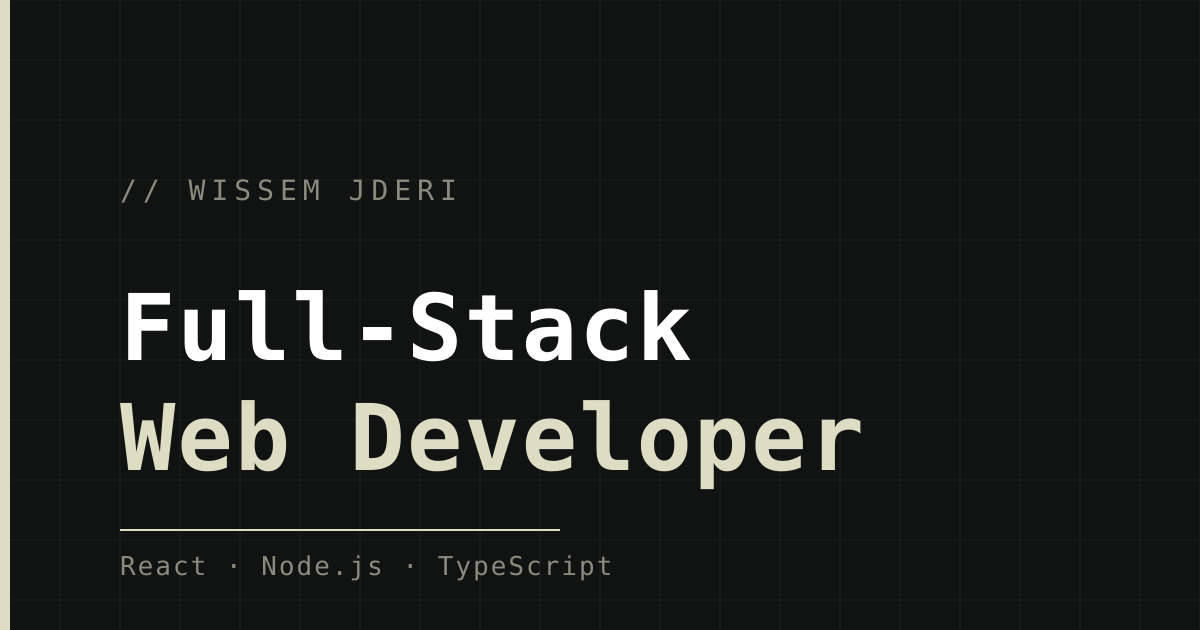
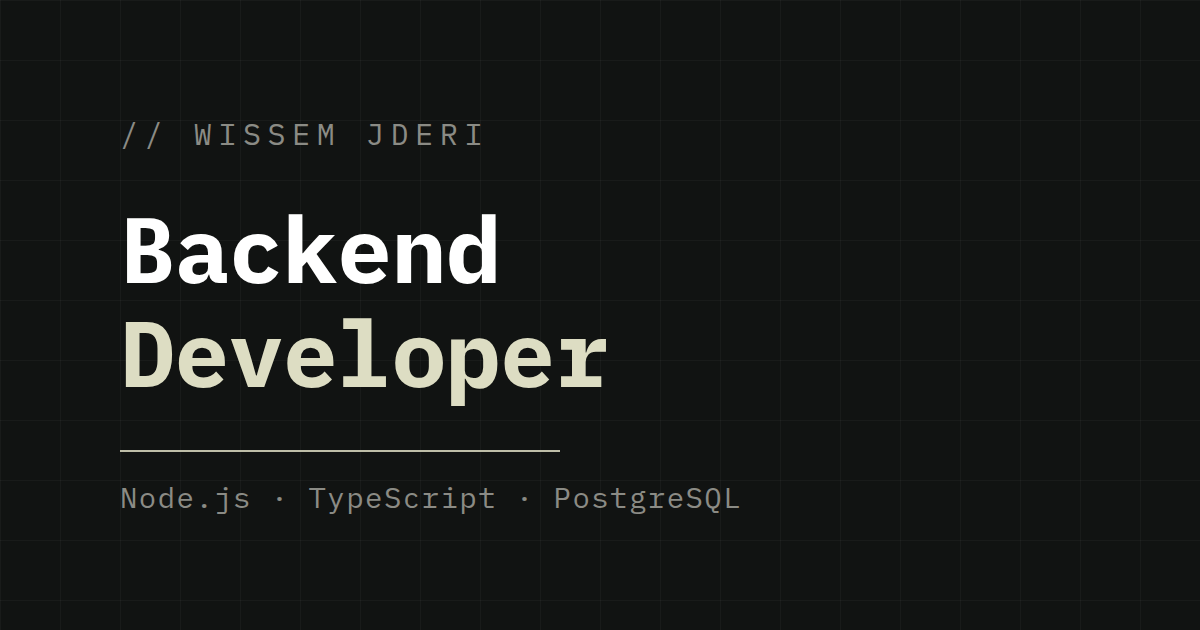
feat: update portfolio content to reflect backend development focus and enhance descriptions

diff --git a/components/main-content/AboutMe.jsx b/components/main-content/AboutMe.jsx
@@ -1,4 +1,8 @@
 import { motion } from "framer-motion";
+
+const linkStyle =
+  "text-[#ddddc3] underline underline-offset-4 decoration-white/25 transition-colors hover:decoration-[#ddddc3]";
+
 const AboutMe = ({ sectionStyle, titleStyle }) => {
   return (
     <motion.section
@@ -10,50 +14,80 @@ const AboutMe = ({ sectionStyle, titleStyle }) => {
       className={`${sectionStyle}`}
     >
       <h2 className={`${titleStyle}`}>About Me:</h2>
-      <p className="text-gray-200 leading-relaxed mb-6">
-        I'm <span className="font-bold">Wissem</span>, a{" "}
-        <span className="font-bold">
-          self-taught backend developer from Tunisia
-        </span>
-        .
-      </p>
-      <p className="text-gray-200 leading-relaxed mb-6">
-        I got into programming because I liked the idea of turning an idea into
-        something real — something you can hand to thousands of people at almost
-        no cost. That's still what excites me about it: a{" "}
-        <span className="font-bold">
-          well-built piece of software can genuinely make someone's life a
-          little easier
-        </span>
-        .
-      </p>
-      <p className="text-gray-200 leading-relaxed mb-6">
-        I work{" "}
-        <span className="font-bold">systematically and deliberately</span>. I'd
-        rather go slow and get it right than rush through and leave a mess
-        behind — that shows up in how I learn, how I write code, and how I think
-        about problems.
-      </p>
-      <p className="text-gray-200 leading-relaxed mb-6">
-        I taught myself through{" "}
-        <span className="font-bold">OSSU's computer science curriculum</span>,
-        working through it the way a program is meant to be worked through — in
-        order, without skipping the parts that are hard to skip.
-      </p>
-      <p className="text-gray-200 leading-relaxed mb-6">
-        I'm not drawn to flashy or complicated for its own sake. I care about{" "}
-        <span className="font-bold">
-          tools that remove friction, simplify decisions, and give people back a
-          bit of their time
-        </span>
-        . If software isn't making something genuinely better, what's the point?
-      </p>
-      <p className="text-gray-200 leading-relaxed">
-        I'm currently <span className="font-bold">open to work</span> — backend,
-        with full-stack capability. Looking to join people who take their craft
-        seriously and keep getting better at what they do. If that sounds like a
-        fit, <span className="font-bold">let's talk.</span>
-      </p>
+
+      <div className="max-w-2xl space-y-5 leading-relaxed text-gray-200">
+        <p>
+          I'm <span className="font-bold">Wissem</span>, a{" "}
+          <span className="font-bold">self-taught backend developer</span> from
+          Sousse, Tunisia.
+        </p>
+
+        <p>
+          I got into programming because I liked that you can build a thing once
+          and hand it to thousands of people. That part still holds up.
+        </p>
+
+        <p>
+          What keeps me here is different, though. I care about{" "}
+          <span className="font-bold">
+            understanding what is actually happening underneath
+          </span>
+          , rather than gluing pieces
+          together until the errors stop. I learned the hard way that "it works"
+          and "I know why it works" are two different things, and that the
+          difference only shows up later, when something breaks and someone has
+          to understand why.
+        </p>
+
+        <p>
+          So I work <span className="font-bold">slowly and deliberately</span>.
+          I would rather get something right
+          than get it done twice. Errors are the part I actually learn from, and
+          simplicity is the part that survives.
+        </p>
+
+        <p>
+          <span className="font-bold">Security is the other half of it.</span>{" "}
+          Spending time on how applications
+          get broken into changed how I build them: it is harder to be careless
+          about auth or input handling once you have spent an evening walking
+          through someone else's.
+        </p>
+
+        <p>
+          Most of what I know came from building things, plus{" "}
+          <a
+            href="https://fullstackopen.com/en/"
+            target="_blank"
+            rel="noopener noreferrer"
+            className={linkStyle}
+          >
+            Full Stack Open
+          </a>
+          ,{" "}
+          <a
+            href="https://cs50.harvard.edu/"
+            target="_blank"
+            rel="noopener noreferrer"
+            className={linkStyle}
+          >
+            CS50
+          </a>{" "}
+          and the{" "}
+          <a
+            href="https://github.com/ossu/computer-science"
+            target="_blank"
+            rel="noopener noreferrer"
+            className={linkStyle}
+          >
+            OSSU curriculum
+          </a>{" "}
+          along the way. There's no degree behind any of it —{" "}
+          <span className="font-bold">what there is instead is public</span>:
+          the repos, the deployed sites, the writeups. I work in Arabic and English, and right now most
+          of my days go into Node.js, NestJS and PostgreSQL.
+        </p>
+      </div>
     </motion.section>
   );
 };

diff --git a/app/layout.js b/app/layout.js
@@ -12,18 +12,21 @@ const SITE_URL = "https://wissemjderi.vercel.app/";
 
 export const metadata = {
   metadataBase: new URL(SITE_URL),
-  title: "Wissem Jderi - Full-Stack Web Developer",
+  title: "Wissem Jderi — Backend Developer",
   description:
-    "Wissem Jderi - Full-stack developer building modern, efficient web applications. Skilled in JavaScript, React, Node.js, and passionate about clean, maintainable code.",
+    "Self-taught backend developer in Tunisia. Node.js, TypeScript, NestJS and PostgreSQL, with a web security practice behind it. Open to remote roles.",
   keywords: [
     "Wissem Jderi",
-    "Full-Stack Developer",
-    "Web Developer",
-    "React",
-    "Next.js",
+    "Backend Developer",
     "Node.js",
     "TypeScript",
-    "Freelance Developer",
+    "NestJS",
+    "Express",
+    "PostgreSQL",
+    "REST API",
+    "Web Application Security",
+    "Remote Developer",
+    "Tunisia",
   ],
   authors: [{ name: "Wissem Jderi" }],
   creator: "Wissem Jderi",
@@ -39,23 +42,23 @@ export const metadata = {
     locale: "en_US",
     url: SITE_URL,
     siteName: "Wissem Jderi",
-    title: "Wissem Jderi - Full-Stack Web Developer",
+    title: "Wissem Jderi — Backend Developer",
     description:
-      "Full-stack developer building modern, efficient web applications. Skilled in JavaScript, React, Node.js, and passionate about clean, maintainable code.",
+      "Self-taught backend developer in Tunisia. Node.js, TypeScript, NestJS and PostgreSQL, with a web security practice behind it. Open to remote roles.",
     images: [
       {
         url: "/og-image.png",
         width: 1200,
         height: 630,
-        alt: "Wissem Jderi - Full-Stack Web Developer",
+        alt: "Wissem Jderi — Backend Developer",
       },
     ],
   },
   twitter: {
     card: "summary_large_image",
-    title: "Wissem Jderi - Full-Stack Web Developer",
+    title: "Wissem Jderi — Backend Developer",
     description:
-      "Full-stack developer building modern, efficient web applications. Skilled in JavaScript, React, Node.js, and passionate about clean, maintainable code.",
+      "Self-taught backend developer in Tunisia. Node.js, TypeScript, NestJS and PostgreSQL, with a web security practice behind it. Open to remote roles.",
     images: ["/og-image.png"],
   },
   icons: {

diff --git a/components/main-content/TechStack.jsx b/components/main-content/TechStack.jsx
@@ -1,19 +1,13 @@
 import Image from "next/image";
 import { motion } from "framer-motion";
-import {
-  FaReact,
-  FaNodeJs,
-  FaGitAlt,
-  FaGithub,
-  FaDocker,
-} from "react-icons/fa";
+import { FaReact, FaNodeJs, FaGitAlt, FaDocker } from "react-icons/fa";
 
 import {
   SiJavascript,
   SiExpress,
+  SiNestjs,
   SiMongodb,
   SiTypescript,
-  SiFastapi,
   SiNextdotjs,
   SiTailwindcss,
 } from "react-icons/si";
@@ -42,16 +36,6 @@ const TechStack = ({ sectionStyle, titleStyle }) => {
             />
           ),
         },
-        {
-          name: "C",
-          icon: <Image src="/logos/c.svg" alt="C" width={36} height={36} />,
-        },
-        {
-          name: "Java",
-          icon: (
-            <Image src="/logos/java.svg" alt="Java" width={36} height={36} />
-          ),
-        },
       ],
     },
     {
@@ -75,16 +59,16 @@ const TechStack = ({ sectionStyle, titleStyle }) => {
       category: "Backend",
       techs: [
         {
-          name: "FastAPI",
-          icon: <SiFastapi size={36} className="text-[#14b8a6]" />,
-        },
-        {
           name: "Node.js",
           icon: <FaNodeJs size={36} className="text-[#68A063]" />,
         },
         {
           name: "Express",
           icon: <SiExpress size={36} className="text-gray-300" />,
+        },
+        {
+          name: "NestJS",
+          icon: <SiNestjs size={36} className="text-[#E0234E]" />,
         },
       ],
     },
@@ -150,10 +134,6 @@ const TechStack = ({ sectionStyle, titleStyle }) => {
         },
         { name: "Git", icon: <FaGitAlt size={36} className="text-red-500" /> },
         {
-          name: "GitHub",
-          icon: <FaGithub size={36} className="text-gray-300" />,
-        },
-        {
           name: "Postman",
           icon: (
             <Image
@@ -172,8 +152,8 @@ const TechStack = ({ sectionStyle, titleStyle }) => {
     <section id="Tech I Use" className={sectionStyle}>
       <h2 className={`${titleStyle}`}>Technologies I Use:</h2>
       <p className="mb-7">
-        The tools, languages, and frameworks I specialize in to deliver
-        efficient solutions.
+        What I work with day to day. I've left off anything I couldn't answer
+        questions about.
       </p>
 
       <div className="grid gap-3 text-white sm:grid-cols-2">

diff --git a/components/main-content/data/myCertificates.js b/components/main-content/data/myCertificates.js
@@ -23,14 +23,6 @@ export const certificates = [
     category: "cybersecurity",
   },
   {
-    title:
-      "Security Fundamentals & Offensive/Defensive Concepts – TryHackMe (Cyber Security 101 Path)",
-    issuer: "TryHackMe",
-    link: "https://tryhackme-certificates.s3-eu-west-1.amazonaws.com/THM-J6JVGH2MA9.pdf",
-    logo: "/logos/tryhackme.svg",
-    category: "cybersecurity",
-  },
-  {
     title: "CS50’s Introduction to Programming with Python",
     issuer: "Harvard",
     link: "https://cs50.harvard.edu/certificates/eac5cd37-29fd-4525-bb3d-2f2d5d4e4f9d",
@@ -39,31 +31,18 @@ export const certificates = [
   },
   {
     title:
+      "Security Fundamentals & Offensive/Defensive Concepts – TryHackMe (Cyber Security 101 Path)",
+    issuer: "TryHackMe",
+    link: "https://tryhackme-certificates.s3-eu-west-1.amazonaws.com/THM-J6JVGH2MA9.pdf",
+    logo: "/logos/tryhackme.svg",
+    category: "cybersecurity",
+  },
+  {
+    title:
       "Cybersecurity & Networking Fundamentals – TryHackMe (Pre-Security Path)",
     issuer: "TryHackMe",
     link: "https://tryhackme-certificates.s3-eu-west-1.amazonaws.com/THM-BKDXC6XQDU.pdf",
     logo: "/logos/tryhackme.svg",
     category: "cybersecurity",
-  },
-  {
-    title: "Responsive Web Design",
-    issuer: "freeCodeCamp",
-    link: "https://www.freecodecamp.org/certification/fcce114309e-e851-4fd6-a674-4792269f8542/responsive-web-design",
-    logo: "/logos/freecodecamp.png",
-    category: "programming",
-  },
-  {
-    title: "JavaScript Algorithms and Data Structures",
-    issuer: "freeCodeCamp",
-    link: "https://www.freecodecamp.org/certification/fcce114309e-e851-4fd6-a674-4792269f8542/javascript-algorithms-and-data-structures-v8",
-    logo: "/logos/freecodecamp.png",
-    category: "programming",
-  },
-  {
-    title: "Scientific Computing with Python",
-    issuer: "freeCodeCamp",
-    link: "https://www.freecodecamp.org/certification/fcce114309e-e851-4fd6-a674-4792269f8542/scientific-computing-with-python-v7",
-    logo: "/logos/freecodecamp.png",
-    category: "programming",
   },
 ];

diff --git a/scripts/og-image.html b/scripts/og-image.html
@@ -1,0 +1,40 @@
+<!doctype html>
+<!--
+  Source for public/og-image.png — the 1200x630 card that renders when the site
+  is shared on LinkedIn, Slack, X, etc. Edit the text below, then regenerate:
+
+    google-chrome --headless=new --window-size=1200,630 \
+      --screenshot=public/og-image.png scripts/og-image.html
+
+  Needs network access on first run: IBM Plex Mono is pulled from Google Fonts
+  so the card matches the site's typeface. After regenerating, re-share the URL
+  through LinkedIn's Post Inspector to bust their cache.
+-->
+<html><head><meta charset="utf-8">
+<link rel="preconnect" href="https://fonts.googleapis.com">
+<link rel="preconnect" href="https://fonts.gstatic.com" crossorigin>
+<link href="https://fonts.googleapis.com/css2?family=IBM+Plex+Mono:wght@400;500;700&display=swap" rel="stylesheet">
+<style>
+  * { margin:0; padding:0; box-sizing:border-box; }
+  body {
+    width:1200px; height:630px; background:#111312;
+    font-family:"IBM Plex Mono", ui-monospace, monospace;
+    background-image:
+      linear-gradient(to right, rgba(255,255,255,.035) 1px, transparent 1px),
+      linear-gradient(to bottom, rgba(255,255,255,.035) 1px, transparent 1px);
+    background-size:60px 60px;
+    display:flex; flex-direction:column; justify-content:center; padding:0 120px;
+  }
+  .kicker { color:#8b8b85; font-size:30px; letter-spacing:.22em; margin-bottom:44px; }
+  h1 { font-size:92px; font-weight:700; line-height:1.12; letter-spacing:-.01em; }
+  h1 .a { color:#ffffff; }
+  h1 .b { color:#ddddc3; }
+  hr { border:0; border-top:2px solid #ddddc3; width:440px; margin:46px 0 26px; opacity:.85; }
+  .stack { color:#8b8b85; font-size:29px; letter-spacing:.05em; }
+</style></head>
+<body>
+  <div class="kicker">// WISSEM JDERI</div>
+  <h1><span class="a">Backend</span><br><span class="b">Developer</span></h1>
+  <hr>
+  <div class="stack">Node.js · TypeScript · PostgreSQL</div>
+</body></html>

diff --git a/components/main-content/Certificates.jsx b/components/main-content/Certificates.jsx
@@ -47,8 +47,7 @@ const Certificates = ({ sectionStyle, titleStyle }) => {
       <h2 className={titleStyle}>Certificates & Achievements:</h2>
 
       <p className="mb-7">
-        Some of the certificates I’ve earned while learning and growing as a
-        developer.
+        The courses and paths I worked through in full.
       </p>
 
       <h3 className="mb-3 text-lg font-semibold text-white">Programming</h3>

diff --git a/components/sidebar/Sidebar.jsx b/components/sidebar/Sidebar.jsx
@@ -8,7 +8,7 @@ const Sidebar = () => {
       <div className="text-center sm:mt-1 mt-20">
         <AnimatedName />
         <p className="text-sm opacity-85 text-[#ddddc3]">
-          Full-Stack Web Developer
+          Backend Developer
         </p>
         <hr className="mx-auto my-3 border-gray-100 opacity-30" />
       </div>

diff --git a/components/main-content/Security.jsx b/components/main-content/Security.jsx
@@ -5,7 +5,7 @@ const proof = [
   {
     name: "TryHackMe",
     detail:
-      "166 rooms completed, an 86-day daily streak, top 2% of users.",
+      "166 rooms completed, including the Jr Penetration Tester path. Top 2% of users.",
     href: "https://tryhackme.com/p/WissemJderi",
   },
   {
